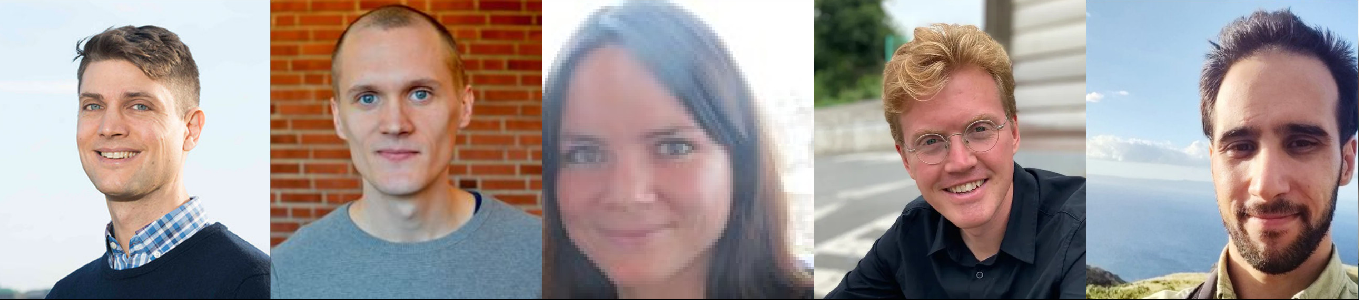
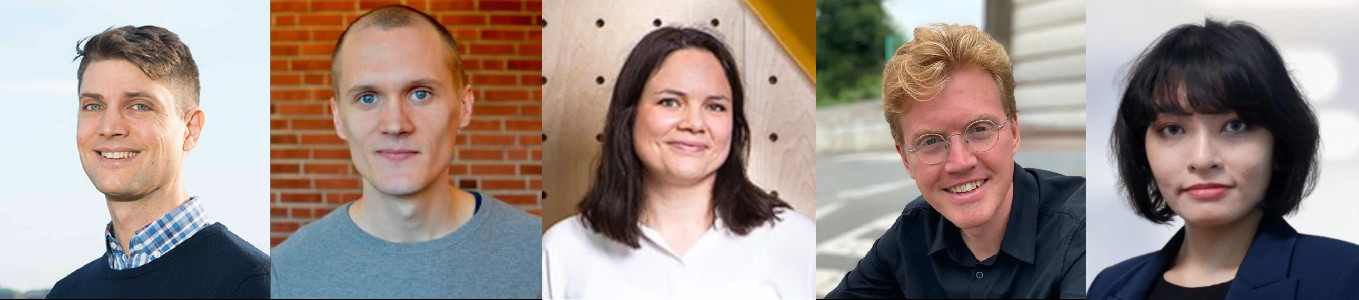
updates. new members.

diff --git a/_pages/people.md b/_pages/people.md
@@ -7,7 +7,7 @@ author_profile: true
 {% endif %}
 {% include base_path %}
 
-We at the Deep Learning Research Group at RISE are a team of researchers who work on foundational problems within machine learning, and apply our expertise on problems related to climate change and ecology.
+RIDR is a team of researchers who work on foundational problems within machine learning, and apply our expertise on problems related to climate change and ecology.
 
 **Olof Mogren, PhD, group leader**
 
@@ -39,19 +39,6 @@ Aleksis' main research interest is to develop machine learning methods for a bro
 
 <br break="all" />
 
-**Edvin Listo Zec, PhD**
-
-<img style="float: left; width: 10em; margin-right: 2em; margin-bottom: 1em;" src="/images/people/listozec.jpg" />
-
-Senior Researcher at RISE Research Institutes of Sweden.
-Defended his PhD in 2025 at the Royal Institute of Technology.
-Defended his MSc in engineering mathematics at Chalmers University of Technology in 2017.
-
-* [More info (researcher profile)](https://edvinli.github.io)
-* [Publications (scholar)](https://scholar.google.se/citations?hl=sv&user=Ft52aSsAAAAJ)
-
-<br break="all" />
-
 **Maria Bånkestad, PhD**
 
 <img style="float: left; width: 10em; margin-right: 2em; margin-bottom: 1em;" src="/images/people/bankestad.png" />
@@ -78,11 +65,44 @@ Also afiliated with Lund University.
 
 <br break="all" />
 
+**Isabelle Tingzon, MSc**
+
+<img style="float: left; width: 10em; margin-right: 2em; margin-bottom: 1em;" src="/images/people/tingzon.jpg" />
+
+Defended her MSc in computer science at University of the Philippines Diliman 2018.
+Researcher and PhD candidate at RISE Research Institutes of Sweden.
+Previously at The World Bank and UNICEF.
+Also afiliated with KTH. Supervised by [Yifang Ban](https://www.kth.se/profile/yifang/) and Aleksis Pirinen.
+
+* [More info (researcher profile)](https://issa-tingzon.github.io)
+* [Publications (scholar)](https://scholar.google.se/citations?hl=sv&user=MGeQcRMAAAAJ)
+
+<br break="all" />
+
+**Ayush Prasad, MSc**
+
+
+Defended his MSc in Theoretical and Computational Methods at University of Helsinki 2024.
+Researcher at RISE Research Institutes of Sweden.
+Previously at Finnish Meteorological Institute.
+
+* [Publications (scholar)](https://scholar.google.se/citations?hl=sv&user=5rZmFXsAAAAJ)
+
+<br break="all" />
+
+**Fan Wang, MSc**
+
+Defended her MSc in Geomatics at Lund University in 2023.
+Previously at Centre for Environmental and Climate Science, Lund University.
+Researcher at RISE Research Institutes of Sweden.
+
+<br break="all" />
+
 ## Previous members of the lab
 
+* [Edvin Listo Zec, PhD](https://edvinli.github.io)
 * Martin Willbo, MSc
 * Ebba Ekblom, MSc
-* David Vikstrand did an internship at the DL group during the spring of 2024
 
 <!--## Master's Students
 
@@ -90,7 +110,7 @@ The following master's students are currently writing their master's thesis in t
 
 ## Master's Students
 
-The following master's students have written their master's theses in the DL group.
+The following master's students have written their master's theses in RIDR.
 
 * [Emma Amnemyr and Daniel Björklund: Active Learning and Annotation Efficiency for Object Detection in Coffee Farming (Lund University)](https://lup.lub.lu.se/luur/download?func=downloadFile&recordOId=9164704&fileOId=9164725)
 * Oscar Marklund and Richard Lindholm: Active Learning for Sound Analysis (Lund University)
@@ -110,3 +130,8 @@ The following master's students have written their master's theses in the DL gro
 * [Sean Pavlov and Simon Almgren: Entity recognition in swedish medical documents (Chalmers University of Technology 2016)](https://mogren.one/group/2016/almgren-pavlov/)
 * [Hampus Bengtsson and Johannes Jansson: Using Classification Algorithms for Smart Suggestions in Accounting Systems (Chalmers University of Technology 2015)](https://mogren.one/group/2015/bengtsson-jansson/)
 * [Yanling Jin and Albin Bramstång: Constructing a Context-aware Recommender System with Web Sessions (Chalmers University of Technology 2015)](https://mogren.one/group/2015/jin-bramstang/)
+
+## Interns
+
+* David Vikstrand did an internship at the DL group during the spring of 2024
+

diff --git a/_pages/about.md b/_pages/about.md
@@ -9,9 +9,9 @@ redirect_from:
 ---
 
 
-Welcome to the _Deep Learning Research Group at RISE_.
-We're a [team of researchers](https://dl-group.se/people/) who work on foundational problems within machine learning,
-and apply our expertise on problems related to climate change and ecology. We also host the weekly
+Welcome to the _RIDR, the Deep Learning Research Group at RISE_.
+We're a [team of researchers](https://ridr.se/people/) who work on foundational problems within machine learning,
+and apply our expertise on problems related to climate change and ecology. We founded [Climate AI Nordics](https://climateainordics.com/); we also host the weekly
 [Learning Machines seminar series](https://www.ri.se/en/what-we-do/educations/learning-machines-seminars) at RISE
 -- [have a look](https://www.youtube.com/playlist?list=PLqLiVcF3GKy1tuQFoDu5QKOM6S33t_4R1) at our great collection of talks.
 
@@ -29,8 +29,10 @@ and apply our expertise on problems related to climate change and ecology. We al
 * [Olof Mogren, PhD](https://mogren.one/)
 * [Aleksis Pirinen, PhD](https://aleksispi.github.io)
 * [Maria Bånkestad, PhD](https://scholar.google.se/citations?user=4tKNCSkAAAAJ&hl=sv&oi=ao)
-* [Edvin Listo Zec, PhD](https://edvinli.github.io/)
 * [John Martinsson, MSc, PhD candidate](https://johnmartinsson.org/)
+* [Isabelle Tingzon, MSc, PhD candidate](https://issa-tingzon.github.io)
+* Ayush Prasad, MSc
+* Fan Wang, MSc
 
 [Visit our Scholar profile](https://scholar.google.com/citations?hl=en&view_op=list_works&gmla=AILGF5UiJtxGkjJ5z3BHO8C37KQwQysUjHyMJAJ1_USVi8t0aoC30hfUabA1jtbynBICV0v_UZzGMFRF8Oq3TtmW4gRaixB3HQ_MIBuoOYsG&user=yc43h58AAAAJ)
 
